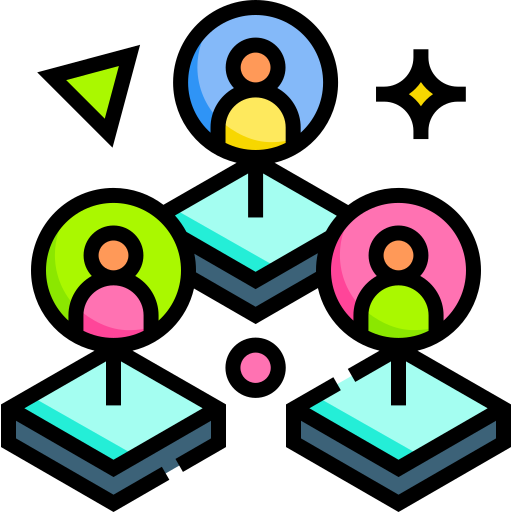
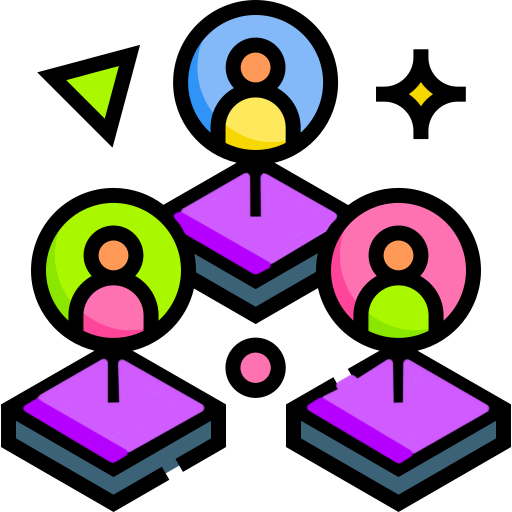
version3

Changed region(s): [[0.0312, 0.6875, 0.4062, 0.9062], [0.5938, 0.6875, 0.9688, 0.9062], [0.3438, 0.3125, 0.6562, 0.5312]]

diff --git a/main.js b/main.js
@@ -179,27 +179,27 @@
          {
              listOfContact.innerHTML += "<li class=\"list-group-item\">\n" +
                  "            <div class=\"contact-short-info\">\n" +
-                 "                <a class=\"contact-name\" href=\"#id" + index + "\">\n" +
+                 "                <a class=\"contact-name id" + index + "\">\n" +
                  row.name +
                  "                </a>\n" +
                  //Кнопка звонка
-                 "               <button type=\"button\" class=\"btn-icon\" onclick=\"updateLastCall(this)\" data-name='" + row.name + "'><span class='phoneMe'></span>Call</button>\n" +
+                 "               <button type=\"button\" class=\"btn-icon-update\" onclick=\"updateLastCall(this)\" data-name='" + row.name + "'><span class='phoneMe'></span>Call</button>\n" +
                  //Кнопка изменения контакта
-                 "                <button type=\"button\" class=\"btn-icon\" onclick=\"editContactFunction(this)\" data-name='" + row.name + "' data-company='" + row.company + "' data-group='" + row.group + "' data-birthday='" + row.birthday + "' data-phone='" + row.phone + "' data-email='" + row.email + "' data-address='" + row.address + "' data-lastCall='" + row.lastCall + "' data-addition='" + row.addition + "' data-description='" + row.description + "' data-id='" + index + "' ><span class='penMe'></span>Edit</button>\n" +
+                 "                <button type=\"button\" class=\"btn-icon-edit\" onclick=\"editContactFunction(this)\" data-name='" + row.name + "' data-company='" + row.company + "' data-group='" + row.group + "' data-birthday='" + row.birthday + "' data-phone='" + row.phone + "' data-email='" + row.email + "' data-address='" + row.address + "' data-lastCall='" + row.lastCall + "' data-addition='" + row.addition + "' data-description='" + row.description + "' data-id='" + index + "' ><span class='penMe'></span>Edit</button>\n" +
                  //Кнопка удаления контакта
-                 "                <button type=\"button\" class=\"btn-icon\" onclick=\"deleteContactFunction(this)\" data-name='" + row.name + "'><span class='trashMe'></span>Delete</button>\n" +
+                 "                <button type=\"button\" class=\"btn-icon-delete\" onclick=\"deleteContactFunction(this)\" data-name='" + row.name + "'><span class='trashMe'></span>Delete</button>\n" +
                  "            </div>\n" +
-                 "            <div class=\"contact-full-info\" id=\"id" + index + "\">\n" +
+                 "            <div style='display : none;' class=\"contact-full-info\" id=\"id" + index + "\">\n" +
                  "                <div class=\"contact-card\">\n" +
-                 "                    <p>Company: " + row.company +
-                 "                    </p><p>Group: " + row.group +
-                 "                    </p><p>Birthday: " + new Date(row.birthday).toLocaleDateString() +
-                 "                    </p><p>Phone: " + row.phone +
-                 "                    </p><p>Email: " + row.email +
-                 "                    </p><p>Address: " + row.address +
-                 "                    </p><p>Last Call: " + new Date(row.lastCall).toLocaleString() +
-                 "                    </p><p>Addition Info: " + row.addition +
-                 "                    </p><p>Description: " + row.description +
+                 "                    <p><b>Company:</b> " + row.company +
+                 "                    </p><p><b>Group:</b> " + row.group +
+                 "                    </p><p><b>Birthday:</b> " + new Date(row.birthday).toLocaleDateString() +
+                 "                    </p><p><b>Phone:</b> " + row.phone +
+                 "                    </p><p><b>Email:</b> " + row.email +
+                 "                    </p><p><b>Address:</b> " + row.address +
+                 "                    </p><p><b>Last Call:</b> " + new Date(row.lastCall).toLocaleString() +
+                 "                    </p><p><b>Addition Info:</b> " + row.addition +
+                 "                    </p><p><b>Description:</b> " + row.description +
                  "                </div>\n" +
                  "            </div>\n" +
                  "        </li>"

diff --git a/CSS/styleMain.css b/CSS/styleMain.css
@@ -4,8 +4,8 @@
     flex-wrap: inherit;
     align-items: center;
     justify-content: space-between;
-    padding-top: 10px;
-    padding-bottom: 10px;
+    padding-top: 20px;
+    padding-bottom: 20px;
 }
 .spanSortBy {
     width: 20%;
@@ -20,7 +20,121 @@
     color: black;
     font-size: 20px;
     background: white;
+    margin-right: 20px;
 }
 .form-control-sort:hover {
-    border-color: rgb(202, 200, 44);
+    border-color: rgb(176, 44, 202);
 }
+
+
+.btn-buttonUp {
+    position: fixed; 
+    right: 5px; 
+    top: 91%; 
+    padding: 10px;
+    background: white; 
+    border-radius: 5px;
+    font-size: 25px;
+}
+.btn-buttonUp:hover {
+    color: rgb(176, 44, 202);
+    border: 1px solid rgb(176, 44, 202);
+    border-radius: 5px;
+}
+
+
+.list-group {
+    padding-left: 5%;
+    padding-right: 5%;
+}
+.list-group-item {
+    list-style-type: none;
+    width: 100%;
+    margin-bottom: 5px;
+}
+.list-group-item:hover {
+    border: 1px solid rgb(176, 44, 202);
+    border-radius: 7px;
+}
+.contact-name {
+    text-decoration: none;
+    color: black;
+    display: inline-block;
+    width: 60%;
+    margin-left: 10px;
+    font-weight: bold;
+}
+.contact-name:hover {
+    cursor: pointer;
+}
+.contact-short-info {
+    position: relative;
+    padding-top: 20px;
+    padding-bottom: 20px;
+    padding-left: 7px;
+    padding-right: 7px;
+    background: white;
+    border-radius: 7px;
+    font-size: 20px;
+}
+.contact-short-info:hover {
+    background: rgb(241, 241, 241);
+}
+.contact-full-info {
+    background: rgb(212, 212, 212);
+    border-radius: 7px;
+    margin-top: -16px;
+}
+.btn-icon-update {
+    position: absolute;
+    right: 250px;
+    background:url(../Content/phone.svg) no-repeat;
+    cursor:pointer;
+    border:none;
+    width: 90px;
+    height: 25px;
+    font-family: 'Abyssinica SIL', serif;
+    font-size: 18px;
+}
+.btn-icon-update:hover {
+    font-weight: bold;
+}
+.btn-icon-edit {
+    position: absolute;
+    right: 140px;
+    background:url(../Content/pen.svg) no-repeat;
+    cursor:pointer;
+    border:none;
+    width: 90px;
+    height: 25px;
+    font-family: 'Abyssinica SIL', serif;
+    font-size: 18px;
+}
+.btn-icon-edit:hover {
+    font-weight: bold;
+}
+.btn-icon-delete {
+    position: absolute;
+    right: 20px;
+    background:url(../Content/trash.svg) no-repeat;
+    cursor:pointer;
+    border:none;
+    width: 105px;
+    height: 25px;
+    font-family: 'Abyssinica SIL', serif;
+    font-size: 18px;
+}
+.btn-icon-delete:hover {
+    font-weight: bold;
+}
+.contact-card {
+    padding-left: 15px;
+    padding-top: 15px;
+    padding-bottom: 15px;
+    font-size: 17px;
+}
+
+
+
+
+

diff --git a/index.html b/index.html
@@ -18,15 +18,17 @@
     <link rel="preconnect" href="https://fonts.googleapis.com">
     <link rel="preconnect" href="https://fonts.gstatic.com" crossorigin>
     <link href="https://fonts.googleapis.com/css2?family=Abyssinica+SIL&display=swap" rel="stylesheet">
+    <script src="http://ajax.googleapis.com/ajax/libs/jquery/1.9.1/jquery.min.js"></script>
 </head>
 
 <body>
 
+     <!--  Header  -->
 <header>
     <nav class="navbar">
         <div class="container-fluid">
             <div class="container-fluid-first">
-                <a class="navbar-brand" href="index.html" id="main">Contact manager</a>
+                <a class="navbar-brand" href="index.html" id="main">Contact Manager</a>
                 <button class="navbar-toggler" id="navbar-toggler-btn">
                     <div class="navbar-toggler-icon">
                         <div class="one"></div>
@@ -71,6 +73,7 @@
     </nav>
 </header>
 
+ <!--  Main  -->
 <main id="mainContent">
     <!--  Sort  -->
     <div id="sortForm" class="sortFormClass">
@@ -81,13 +84,16 @@
         </select>
     </div>
 
+    <!--  To top button  -->
+    <a id="btnToTop" class="btn-buttonUp" href="#main">^</a>
+
     <!--  List Of Contacts  -->
-    <ul class="list-group" id="listOfContact">
-        <li class="list-group-item-loading">
-            <div>Wait for loading...</div>
-            <img class="preloader" src="Content/monophy.gif" alt="preloader">
-        </li>
-    </ul>
+        <ul class="list-group" id="listOfContact">
+            <li class="list-group-item-loading">
+                <div>Wait for loading...</div>
+                <img class="preloader" src="Content/monophy.gif" alt="preloader">
+            </li>
+        </ul>
 
 <!--  Add And Edit Contact Form -->
     <div id="contactForm" class="ms-3 me-3">
@@ -156,10 +162,10 @@
         <input id="file" type="file">
     </form>
 
-    <!--  To top button  -->
-    <a id="btnToTop" class="btn buttonUp rounded-2 lh-1 bg-dark bg-gradient text-white position-sticky"  href="#main">^</a>
+    
 </main>
 
+ <!--  Footer  -->
 <footer>
     <nav class="list-group-container">
         <ul class="list-group-footer" id="bottomMenu">

diff --git a/functions.js b/functions.js
@@ -2,6 +2,26 @@ const navbarSupportedContent = document.getElementById('navbarSupportedContent')
 navbarSupportedContent.style.display ="none";
 const aboutUs = document.getElementById('aboutUs');
 aboutUs.style.display = "none";
+//const listContacts = document.getElementById('listOfContact');
+
+document.addEventListener('click',(e) =>
+  {
+    var elementClass = e.target.className;
+    const contactById = document.getElementById(String(elementClass).split(' ')[1]);
+    if(contactById != null && contactById.id.includes('id'))
+    {
+        if(contactById.style.display =="none")
+        {
+            contactById.style.display = "block";
+        }
+        else 
+        {
+            contactById.style.display ="none";
+        }
+    }
+  }
+);
+
 
 function OpenCLoseNavbar() {
     if(navbarSupportedContent.style.display =="none")
@@ -25,5 +45,10 @@ function OpenCLoseAboutUs() {
     }
 }
 
+
 document.getElementById('navbar-toggler-btn').addEventListener('click', OpenCLoseNavbar);
 document.getElementById('aboutUsBtn').addEventListener('click', OpenCLoseAboutUs);
+
+
+
+

diff --git a/CSS/styleHeader.css b/CSS/styleHeader.css
@@ -24,7 +24,7 @@ body {
     margin-bottom: 10px;
 }
 .navbar-brand:hover {
-    color: rgb(202, 200, 44);
+    color: rgb(176, 44, 202);
 }
 .navbar-toggler {
     width: 60px;
@@ -58,7 +58,7 @@ body {
 }
 .navbar-toggler-icon:hover div {
     width: 100%;
-    background: rgb(202, 200, 44);
+    background: rgb(176, 44, 202);
 }
 .navbar-collapse {
     transform: translateX(-150%);
@@ -84,7 +84,7 @@ body {
     color: white;
 }
 .nav-link:hover {
-    color: rgb(202, 200, 44);
+    color: rgb(176, 44, 202);
 }
 
 .search-d-flex {
@@ -96,7 +96,7 @@ body {
     font-size: 20px;
 }
 .form-select:hover {
-    border-color: rgb(202, 200, 44);
+    border-color: rgb(176, 44, 202);
 }
 .form-control {
     width: 40%;
@@ -105,7 +105,7 @@ body {
     font-size: 20px;
 }
 .form-control:hover {
-    border-color: rgb(202, 200, 44);
+    border-color: rgb(176, 44, 202);
 }
 .btn-form-search {
     width: 10%;
@@ -117,6 +117,6 @@ body {
     color: white;
 }
 .btn-form-search:hover {
-    color: rgb(202, 200, 44);
+    color: rgb(176, 44, 202);
     cursor: pointer;
 }
